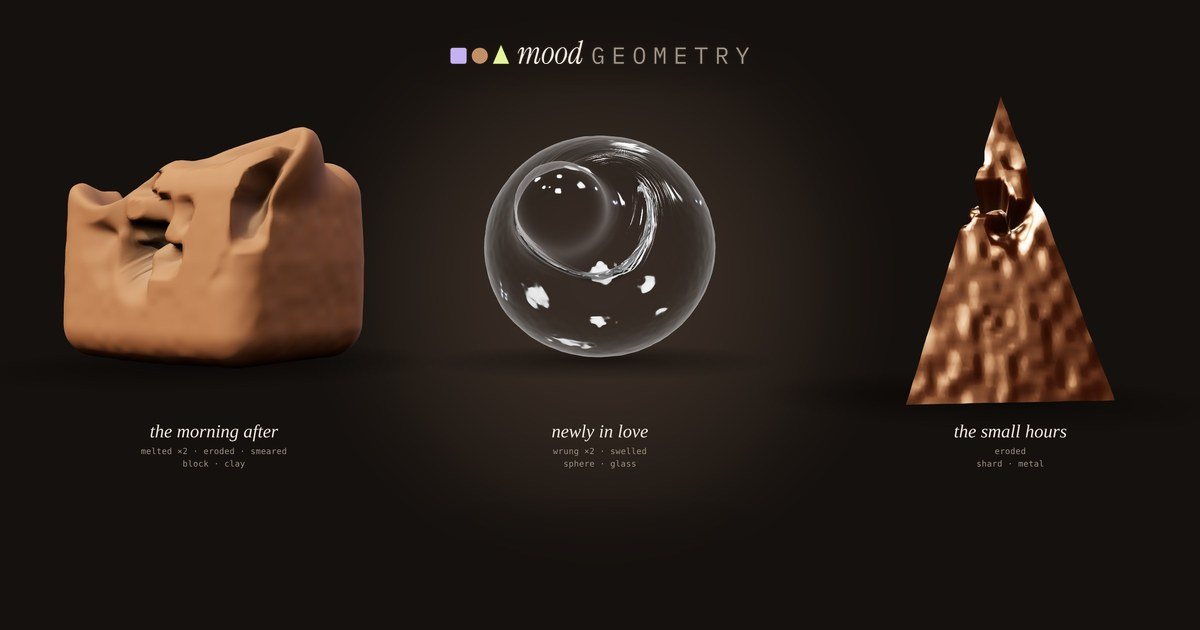
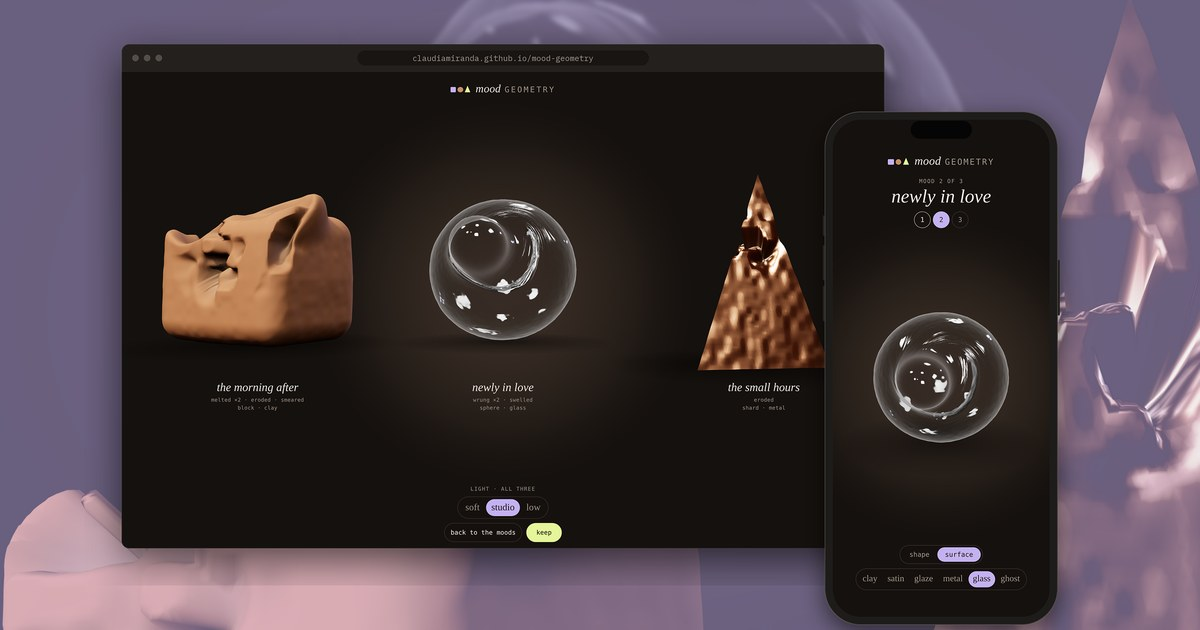
Use the ghostmeat hero for the share image
Claude-Session: https://claude.ai/code/session_01FF1HJtXziGyHfZcsQKjqYY

diff --git a/index.html b/index.html
@@ -13,7 +13,7 @@
 <meta property="og:image" content="https://mood.ghostmeat.xyz/og.jpg">
 <meta property="og:image:width" content="1200">
 <meta property="og:image:height" content="630">
-<meta property="og:image:alt" content="three sculpted forms: a melted clay block, a wrung glass sphere and an eroded metal shard, each labeled with a mood">
+<meta property="og:image:alt" content="mood geometry on a laptop and a phone: three sculpted forms in clay, glass and metal, each labeled with a mood, over a lavender background">
 <meta name="twitter:card" content="summary_large_image">
 <meta name="twitter:title" content="mood geometry">
 <meta name="twitter:description" content="you're dealt three moods. push a simple form toward each one, and keep the three together.">
